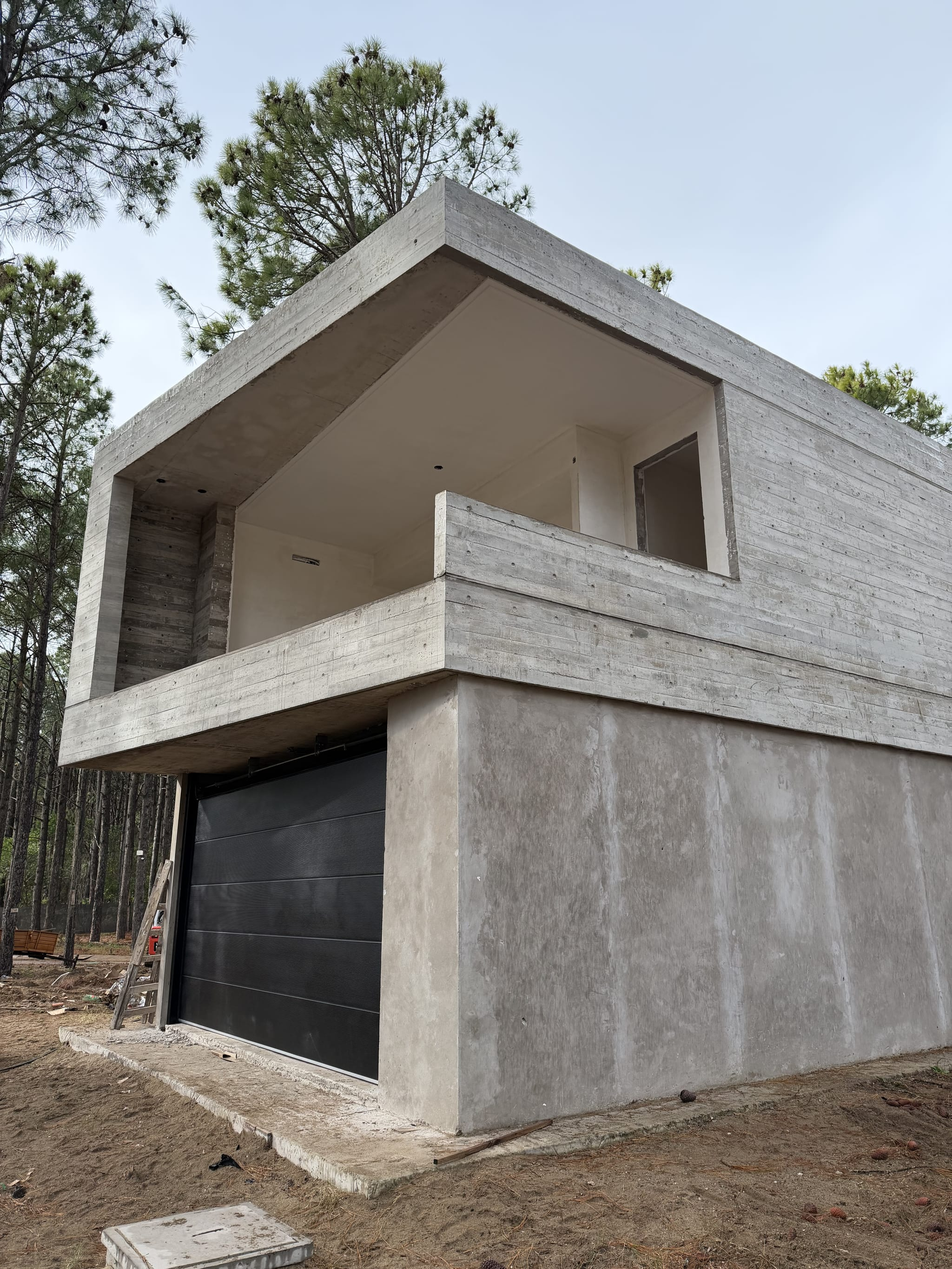
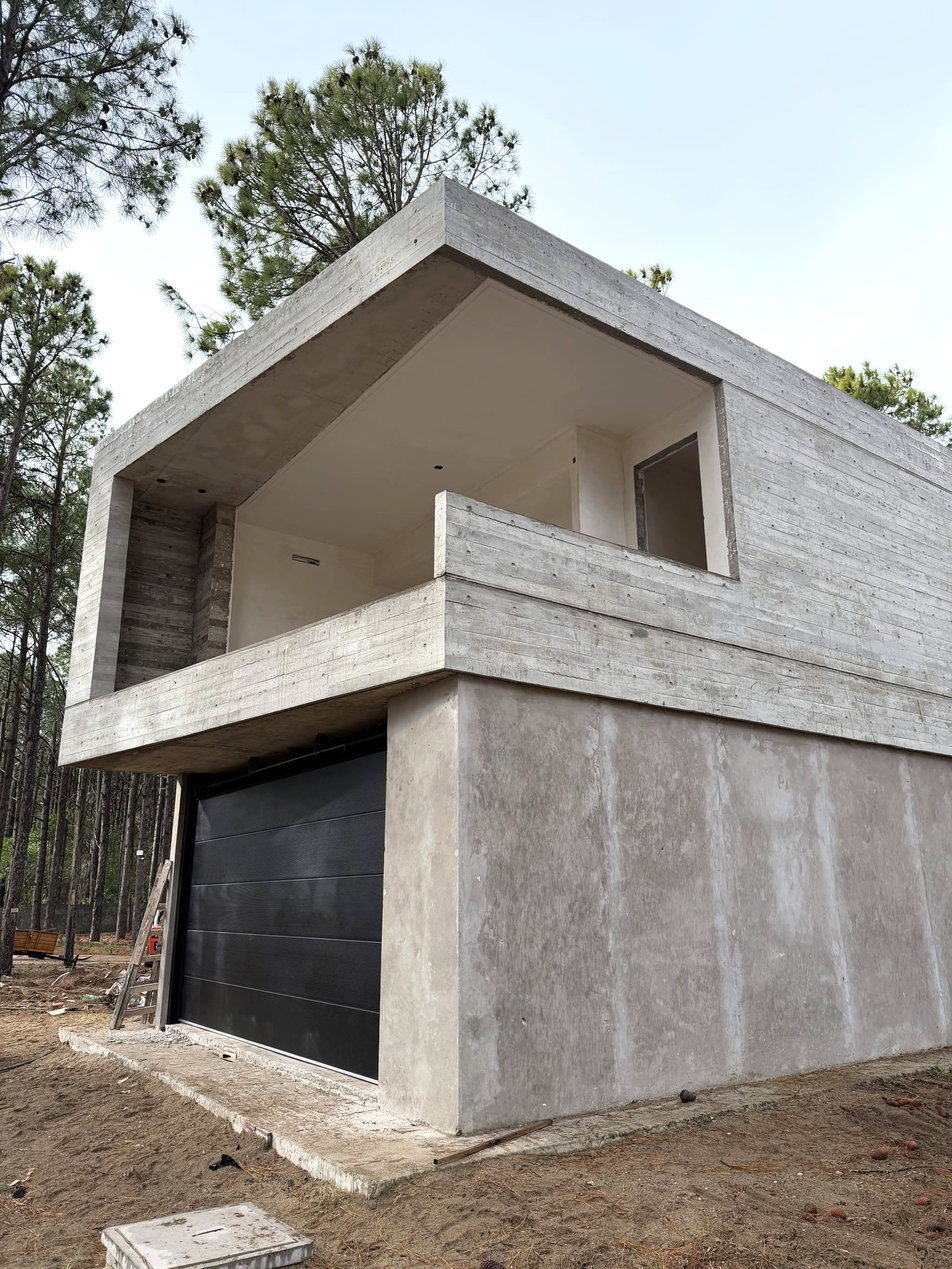
fix: saca la ficha de la nota y aclara las fotos de portada
- El recorte de la portada deja de mostrar categoria, fecha y lectura, y
  pasa a llevar la bajada, que antes se repetia en el cuerpo
- Las dos fotos de obra suben luminosidad, saturacion y algo de
  contraste, para que peguen con los renders: 114 a 130 la del frente
  de obra y 135 a 147 la del Lote 7

diff --git a/src/app/blog/[slug]/page.tsx b/src/app/blog/[slug]/page.tsx
@@ -52,22 +52,11 @@ export default async function NotaPage({ params }: Params) {
             <NotchFrame
               corner="bottom-right"
               className="aspect-[4/5] sm:aspect-[16/9] lg:aspect-[48/25]"
-              notchClassName="notch--roomy w-[82%] md:w-[30%] md:max-w-[340px]"
+              notchClassName="notch--roomy w-[82%] md:w-[34%] md:max-w-[400px]"
               notch={
-                <dl className="grid grid-cols-2 gap-y-4 text-[12px] md:grid-cols-1">
-                  <div>
-                    <dt className="eyebrow text-pr-gray-700">Categoría</dt>
-                    <dd className="text-pr-black mt-1">{nota.categoria}</dd>
-                  </div>
-                  <div>
-                    <dt className="eyebrow text-pr-gray-700">Publicada</dt>
-                    <dd className="text-pr-black mt-1">{nota.fechaTexto}</dd>
-                  </div>
-                  <div>
-                    <dt className="eyebrow text-pr-gray-700">Lectura</dt>
-                    <dd className="text-pr-black mt-1">{nota.lectura}</dd>
-                  </div>
-                </dl>
+                <p className="text-pr-gray-700 text-[13px] leading-[1.6]">
+                  {nota.bajada}
+                </p>
               }
               overlay={
                 <h1 className="display absolute bottom-64 left-6 z-10 max-w-[16ch] text-[clamp(1.6rem,4.5vw,3.5rem)] text-white sm:bottom-10 md:bottom-9 md:left-9">
@@ -94,12 +83,11 @@ export default async function NotaPage({ params }: Params) {
           <div className="mx-auto max-w-7xl px-4 pb-14 md:px-8 md:pb-20 lg:px-12">
             <div className="grid gap-10 md:grid-cols-[minmax(0,1fr)_280px] md:gap-16">
               <div>
-                <p className="text-pr-black max-w-[52ch] text-[16px] leading-[1.6]">
-                  {nota.bajada}
-                </p>
-
                 {nota.bloques.map((bloque, indice) => (
-                  <section key={bloque.titulo} className="mt-12">
+                  <section
+                    key={bloque.titulo}
+                    className={indice === 0 ? "" : "mt-12"}
+                  >
                     <h2 className="text-pr-black text-[19px] font-semibold">
                       {bloque.titulo}
                     </h2>
